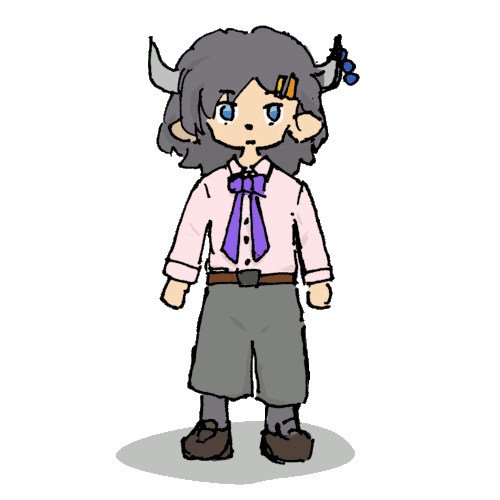
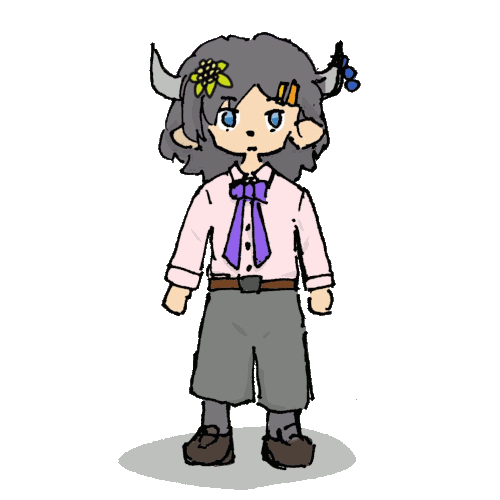
YakMusco2.1
* 画像差し替え(テトラカイン、メキシレチン、アミオダロン)
* ジブカインの追加

Changed region(s): [[0.21, 0.03, 0.72, 0.99]]

diff --git a/script.js b/script.js
@@ -62,6 +62,7 @@ var chara=[[
 ["img/chara/pro.png", 0, "プロカイン", "<p>エステル型。</p><p>pro-は他の局所麻酔薬の「先行、さきがけ」の意。現在は後継の局所麻酔薬に取って代わられ、あまり使われていない。</p><p>組織浸透性が低いため表面麻酔では使えない。</p>"],
 ["img/chara/benzo.png", 0, "アミノ安息香酸エチル","<p>エステル型。</p><p>化学名がそのまま一般名になっている。</p>"],
 ["img/chara/tetra.png", 0, "テトラカイン", "<p>エステル型。</p><p>アミノ安息香酸エチルに炭素4つ(tetra)のブチル基を付加したもの。</p>"],
+["img/chara/dibu.png", 0, "ジブカイン", "<p>アミド型。</p><p>エチレンジアミンとブチル基を構造にもつため、「ジ」「ブ」と名がついた。</p><p>キナの木由来の抗マラリア薬、「キニーネ」は局所麻酔作用も持っていた。ただし副作用が強いというデメリットがあり、それを解消できるキニーネ代用薬を探す過程で、ジブカインが開発された。</p><p>開発経緯の名残として、構造にはキノリンが含まれている。</p><p>本薬はアミド型局所麻酔薬のさきがけである。</p>"],
 ["img/chara/lido.png", 0, "リドカイン", "<p>アミド型。</p><p>コリンエステラーゼによる分解を受けにくい。</p><p>組織浸透性が高く、表面麻酔に使用可能。</p>"],
 ["img/chara/mepiva.png", 0, "メピバカイン", "<p>vaは血管収縮(vaso-contriction)作用の意。</p><p>以降、血管収縮作用をあわせもった局所麻酔薬には「-vacaine」がつく。</p>"],
 ["img/chara/oxetha.png", 0, "オキセサゼイン", "<p>アミド型。</p><p>酸性部位でも薬効を発揮する。ガストリン遊離抑制作用による胃酸分泌抑制作用がある。</p><p>このため、胃炎などに起因する疼痛に対し経口投与で用いられる。</p>"]],
@@ -78,7 +79,7 @@ var chara=[[
 ["img/chara/pils.png", 0, "ピルシカイニド","<p>Ⅰc群の抗不整脈薬。</p><p>リドカインに類似した構造を持つ。</p>"],
 ["img/chara/flec.png", 0, "フレカイニド","<p>Ⅰa群の抗不整脈薬。</p><p>プロカインアミドに類似した構造を持つ。</p>"],
 ["img/chara/propra.png", 0, "プロプラノロール", "<p>Ⅱ群の抗不整脈薬。</p><p>β遮断薬。心拍数を下げることで頻脈性不整脈に効果を示す。</p><p>これ以外のβ遮断薬も、同じく頻脈性不整脈に用いられる。</p><p>なお、これ以降、同様な構造（アミノプロパンジオール）をもったβ遮断薬には、「-olol」がステムとしてつく。</p>"],
-["img/chara/amio.png", 0, "アミオダロン", "<p>Ⅲ群の抗不整脈薬。</p><p>Kイオンチャネルを遮断する。活動電位持続時間を延長する。</p><p>そのほか、β受容体、Kチャネル、Caチャネルなども遮断する。</p><p>肺線維症や間質性肺炎などの重篤な副作用がある。</p>"],
+["img/chara/amio.png", 0, "アミオダロン", "<p>Ⅲ群の抗不整脈薬。</p><p>Kイオンチャネルを遮断する。活動電位持続時間を延長する。</p><p>そのほか、β受容体、Kチャネル、Caチャネルなども遮断する。</p><p>肺線維症や間質性肺炎などの重篤な副作用がある。</p><p>ケラ(学名：Ammi visnaga)という植物に含まれる、平滑筋弛緩作用を持つ成分「ケリン(Khelin)」を参考にして開発された。その後、基礎研究から抗不整脈作用が見出された。</p>"],
 ["img/chara/sota.png", 0, "ソタロール", "<p>Ⅲ群の抗不整脈薬。</p><p>Kイオンチャネルを遮断する。活動電位持続時間を延長する。</p><p>そのほか、β受容体、Caチャネルなども遮断する。</p><p>むしろ、当初はβ遮断薬として使われていた。Kイオンチャネル遮断による抗不整脈作用は、後から発見された。薬名に「-olol」がついていないのは、プロプラノロールよりも前に発見されたものだから。</p>"],
 ["img/chara/nife.png", 0, "ニフェカラント", "<p>Ⅲ群の抗不整脈薬。</p><p>Kイオンチャネルを遮断する。活動電位持続時間を延長する。</p>"],
 
@@ -230,7 +231,7 @@ function save_load(){
 			var quiz_save_arr = quiz_save_unit_arr[i].split("");
 			
 			if(quiz_save_arr.length == 0){
-				alert("記帳無し:" + i);
+				//alert("記帳無し:" + i);
 				for(var j=0; j< quiz[i] .length; j++){
 					quiz[i][j][3]=0;
 				}

diff --git a/index.html b/index.html
@@ -3,7 +3,7 @@
 <head>
 <link href="style.css" rel="stylesheet">
 <meta charset="UTF-8"> <!--日本語-->
-<title>YakMusco v_2</title>
+<title>YakMusco v_2.1</title>
 <meta name="viewport" content="width=device-width" />
 <link rel="shortcut icon" href="img/ykmc.png" type="image/png">
 
@@ -15,7 +15,7 @@
 
   <body id="mybody" class="cain_body">
     <div class="home" id="home">
-        <h1>YakMusco v_2</h1>
+        <h1>YakMusco v_2.1</h1>
 				
 					<p>
 						<label for="unit-select">単元を選択:</label>
@@ -138,6 +138,7 @@
 					<tr><td>紫の帯のリボン</td><td>3群。（結び目の丸が3つあるから3群。炎色反応の色から、K遮断薬）</td></tr>
 					<tr><td>オレンジのバタフライボウ</td><td>4群。（結び目の丸が4つあるから4群。炎色反応の色から、Ca遮断薬））</td></tr>
 					<tr><td>植物の髪飾り</td><td>キニジン、アトロピン（植物由来）</td></tr>
+          <tr><td>花の髪飾り</td><td>アミオダロン(ケラの成分、ケリンが由来)</td></tr>
 					<tr><td>緑色の服など、局所麻酔薬のプロカインと類似した恰好</td><td>プロカインアミド、フレカイニド（プロカイン類似の構造のもの）</td></tr>
 					<tr><td>黄色の服など、局所麻酔薬のリドカインと類似した恰好</td><td>リドカインや、ピルシカイニド（リドカイン類似の構造のもの）</td></tr>
 					<tr><td>水を持っている</td><td>ジソピラミド（口渇の副作用）</td></tr>
